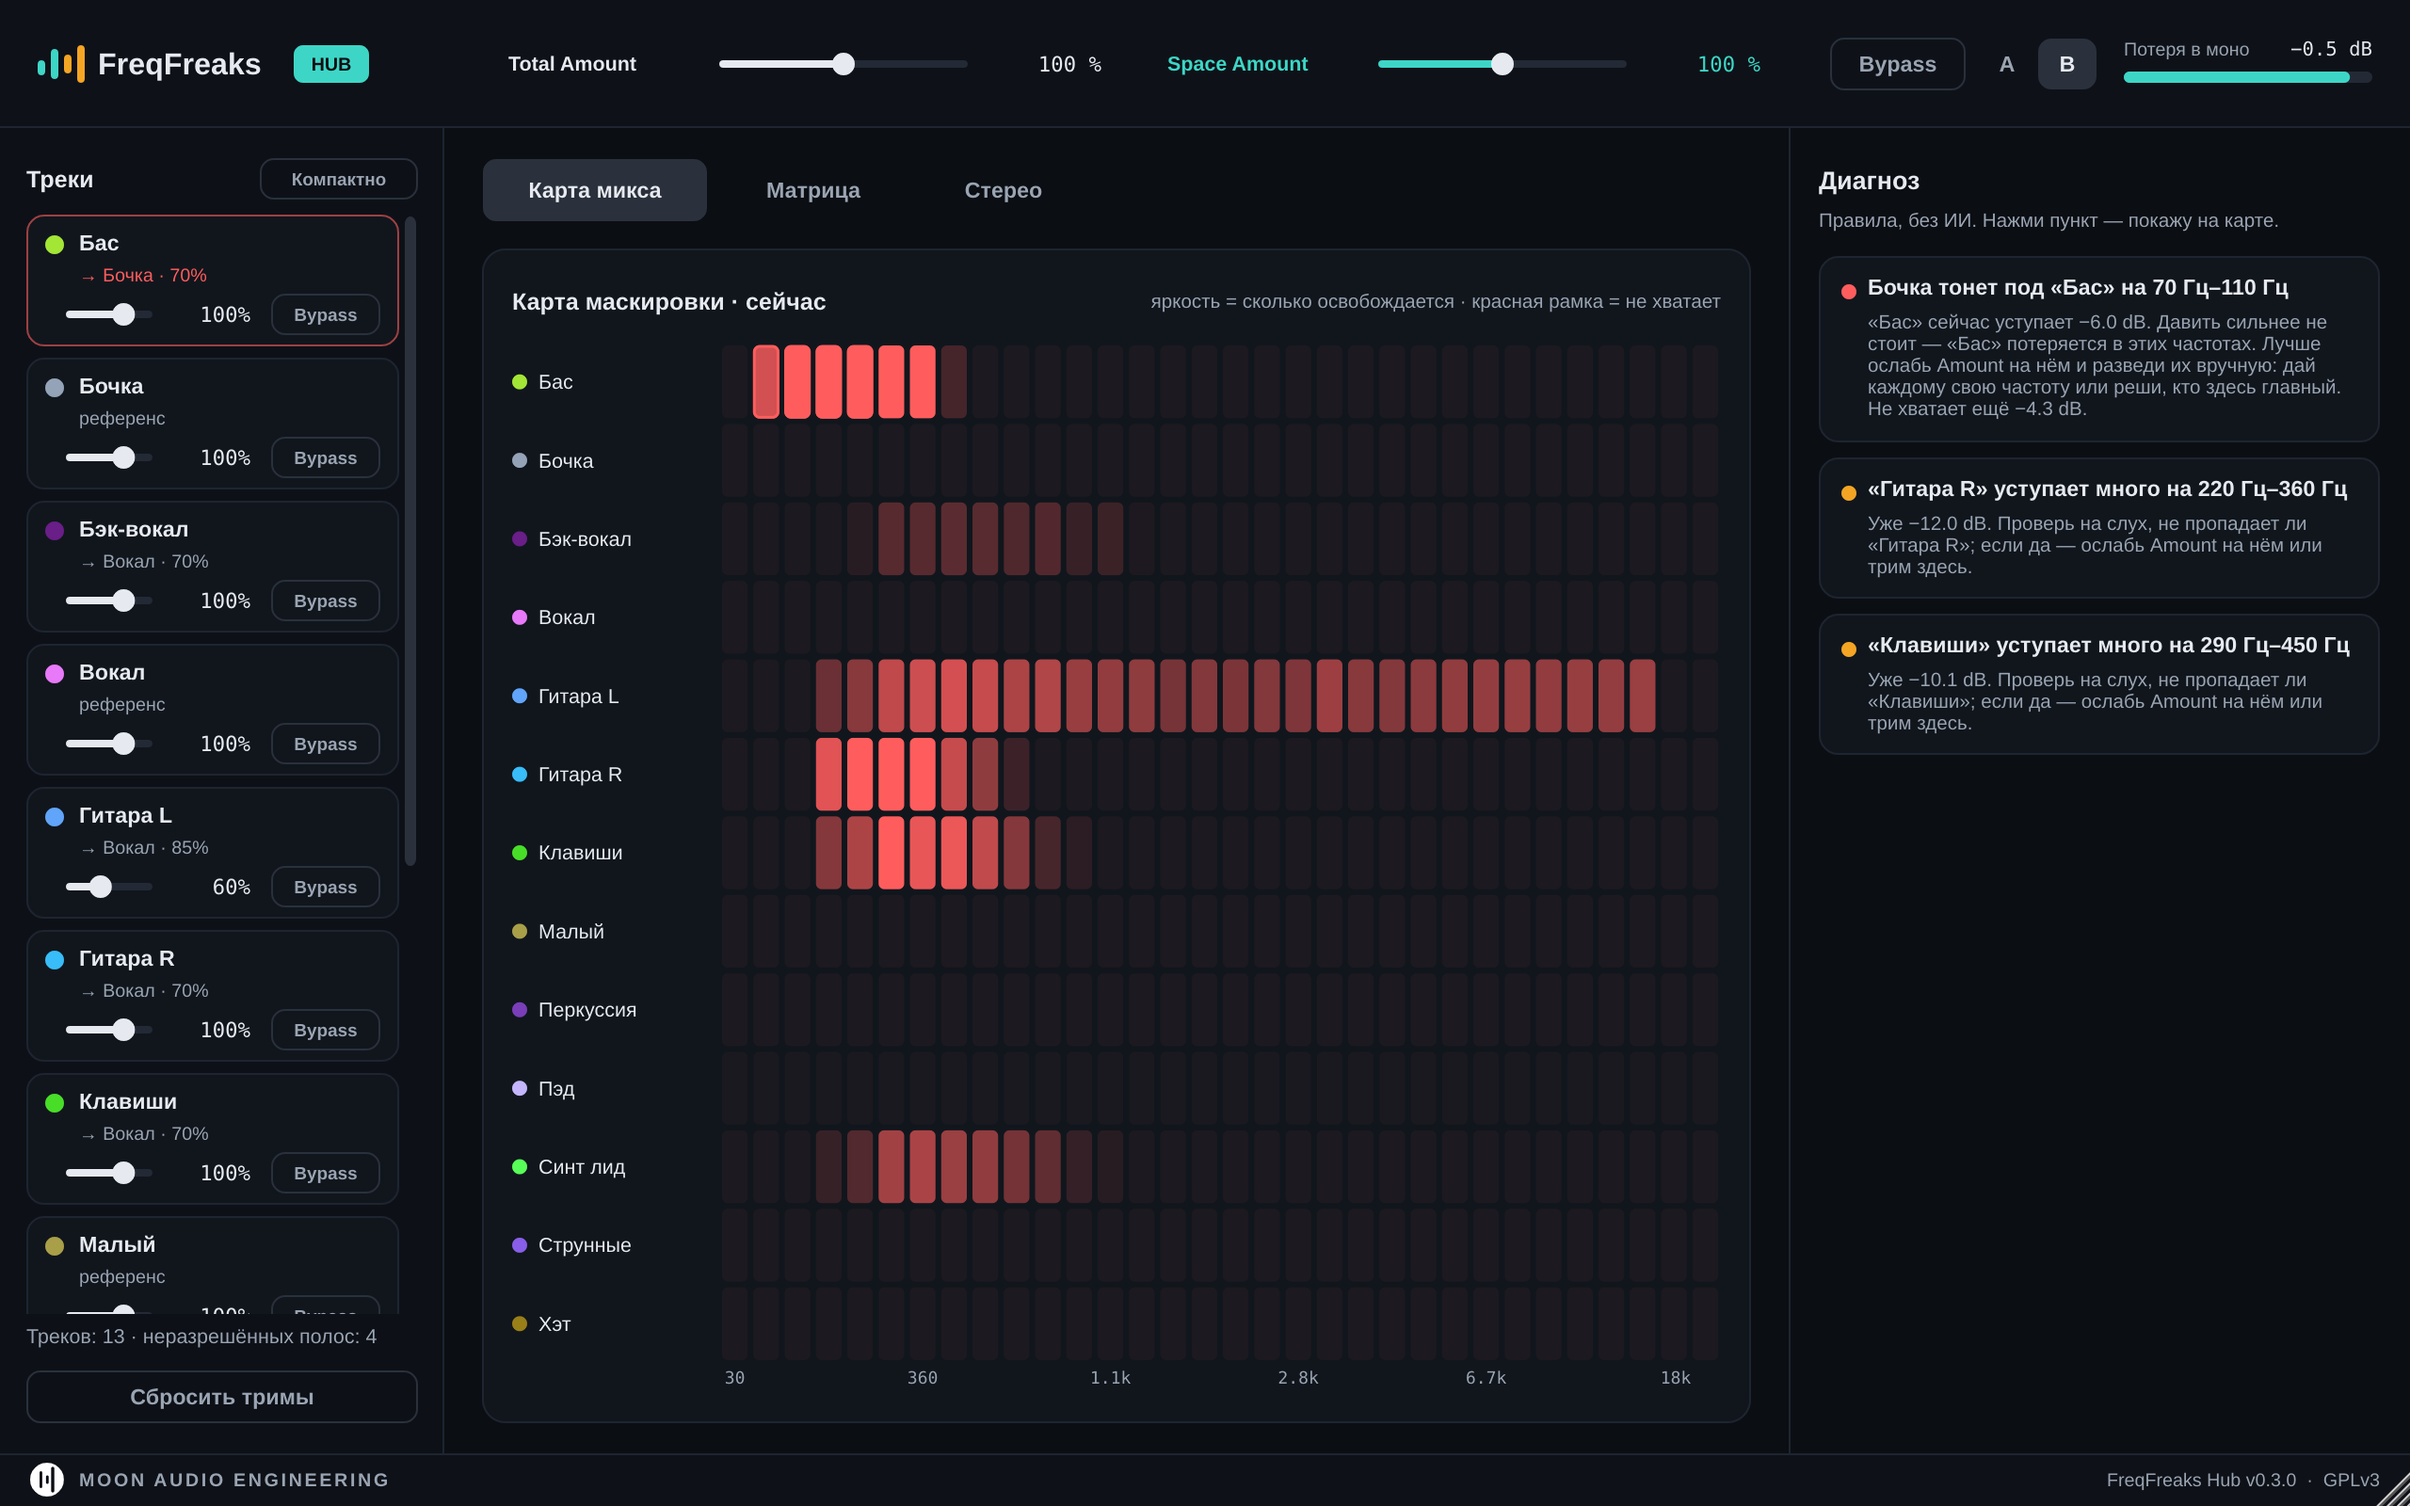
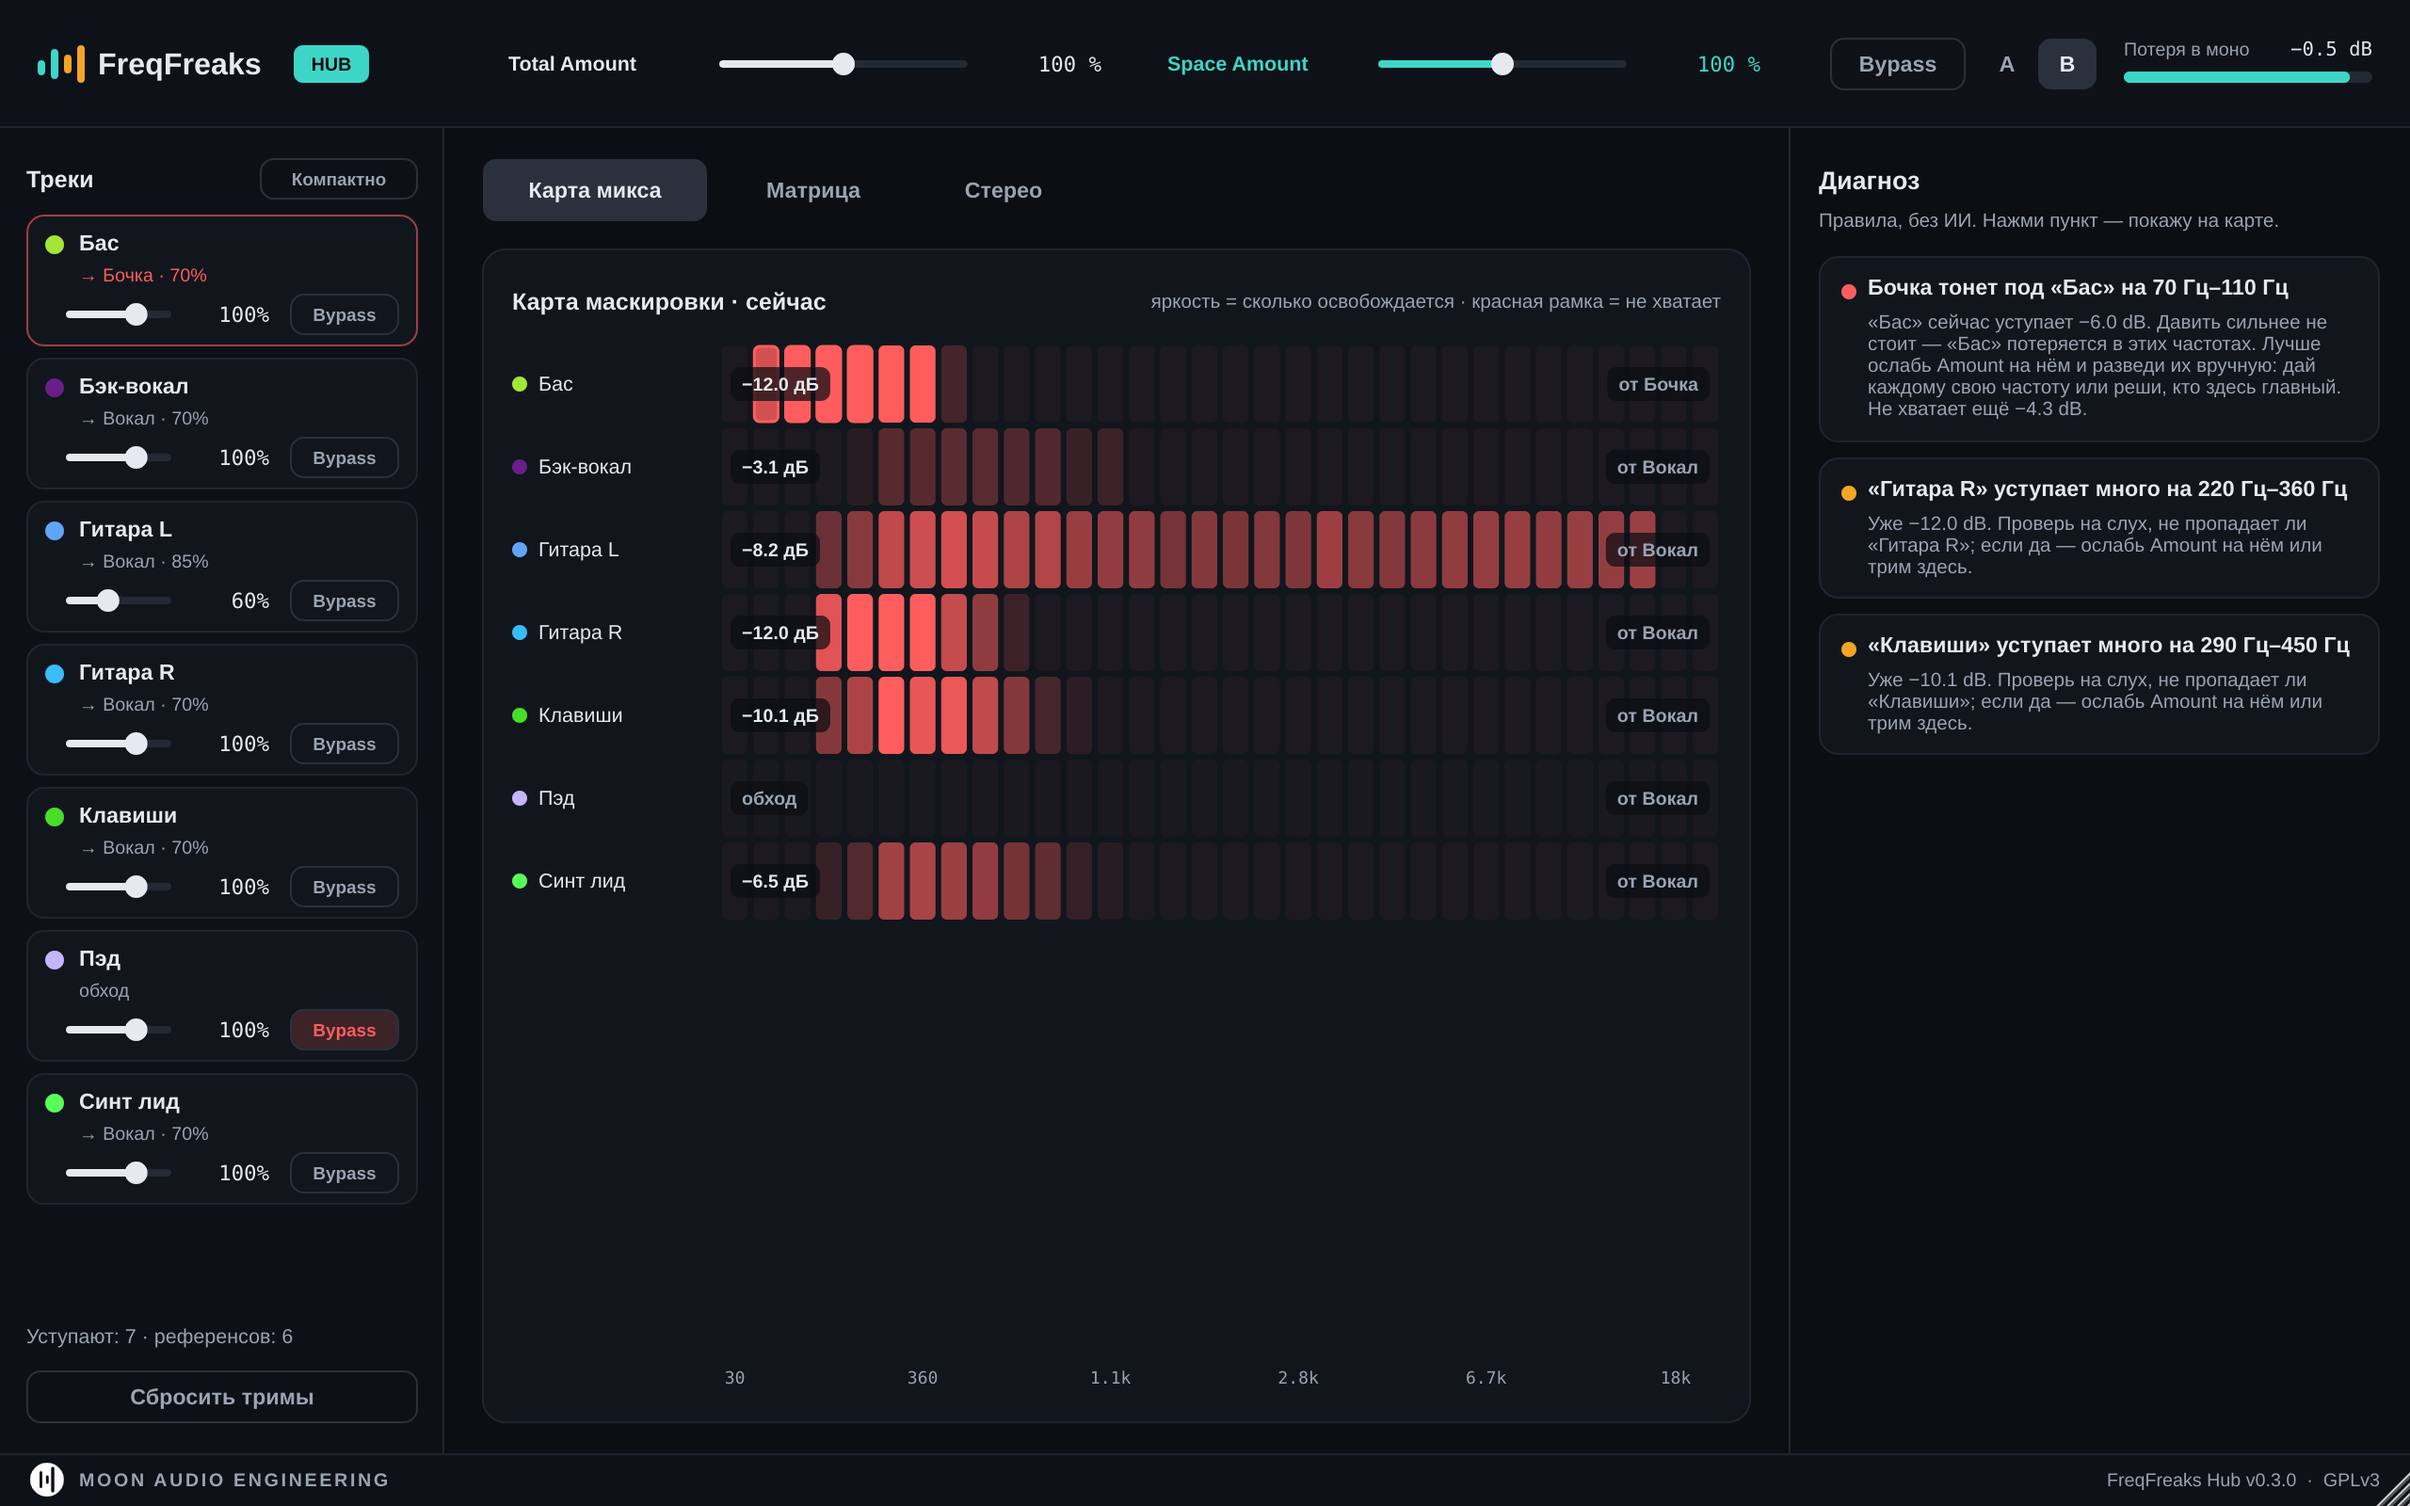
Hub: problems go when fixed; references off the map and list; row labels
- A problem card goes as soon as the level has been fine for 1.5 s in a
  row (shorter dips do not make it flicker) and stays at least 3 s so it
  can be read; no more "N s ago" cards.
- Tracks that yield to nobody (pure references) are no longer on the mix
  map or in the track list: they have nothing to show or trim there. The
  Matrix still shows every track.
- Each map row shows, at its start, how much the track gives now
  ("-12.0 dB", updated once a second), and at its end whom it yields to
  ("от Бочка").

Claude-Session: https://claude.ai/code/session_01Bka2X7zvzf53dtstmGAQz3

diff --git a/plugins/hub/HubEditor.cpp b/plugins/hub/HubEditor.cpp
@@ -68,6 +68,27 @@ void HubCanvas::paint (juce::Graphics& g)
     }
 }
 
+void HubCanvas::setData (std::vector<HubTrack> t)
+{
+    tracks = std::move (t);
+    const auto now = SharedBus::nowMs();
+    for (const auto& tr : tracks)
+    {
+        float given = 0.0f;
+        for (int b = 0; b < kNumBands; ++b)
+            given = juce::jmax (given, tr.data.eqDb[b] + tr.data.spaceDb[b]);
+        auto& g = shownGiven[tr.id];
+        g.pending = juce::jmax (g.pending, given);
+        if (now - g.ms >= 1000)
+        {
+            g.shown = g.pending;
+            g.pending = given;
+            g.ms = now;
+        }
+    }
+    repaint();
+}
+
 void HubCanvas::paintMap (juce::Graphics& g, juce::Rectangle<float> area)
 {
     auto title = area.removeFromTop (24.0f);
@@ -81,14 +102,30 @@ void HubCanvas::paintMap (juce::Graphics& g, juce::Rectangle<float> area)
 
     auto labels = area.removeFromBottom (16.0f);
     const float labelW = 110.0f;
-    const int n = (int) tracks.size();
+
+    // Only the tracks that yield: a pure reference never has anything to show here
+    // (the Matrix still shows everyone).
+    std::vector<int> shown;
+    for (int t = 0; t < (int) tracks.size(); ++t)
+        if (tracks[(size_t) t].data.references[0] != 0)
+            shown.push_back (t);
+    if (shown.empty())
+    {
+        g.setColour (theme::textDim);
+        g.setFont (theme::font (13.0f));
+        g.drawText (theme::u8 ("Нет дорожек, которые уступают. Выбери референс на треке."), area, juce::Justification::centred);
+        return;
+    }
+
+    const int n = (int) shown.size();
     const float rowH = juce::jmin (44.0f, area.getHeight() / (float) n);
     const float cellW = (area.getWidth() - labelW) / (float) kNumBands;
 
-    for (int t = 0; t < n; ++t)
+    for (int row = 0; row < n; ++row)
     {
+        const int t = shown[(size_t) row];
         const auto& tr = tracks[(size_t) t];
-        const float y = area.getY() + rowH * (float) t;
+        const float y = area.getY() + rowH * (float) row;
         g.setColour (tr.colour);
         g.fillEllipse (area.getX(), y + rowH * 0.5f - 4.0f, 8.0f, 8.0f);
         g.setColour (theme::text);
@@ -115,6 +152,24 @@ void HubCanvas::paintMap (juce::Graphics& g, juce::Rectangle<float> area)
                 g.drawRoundedRectangle (cell.reduced (0.5f), 3.0f, 2.0f);
             }
         }
+
+        // At the start of the row: how much the track gives now; at the end: to whom.
+        const auto rowArea = juce::Rectangle<float> (area.getX() + labelW, y, area.getWidth() - labelW, rowH).reduced (6.0f, 0.0f);
+        auto pill = [&] (const juce::String& text, bool atStart, juce::Colour colour) {
+            const auto font = theme::font (11.0f, true);
+            const float w = juce::jmin (rowArea.getWidth() * 0.4f, juce::GlyphArrangement::getStringWidth (font, text) + 12.0f);
+            auto box = juce::Rectangle<float> (w, 18.0f).withCentre ({ atStart ? rowArea.getX() + w * 0.5f : rowArea.getRight() - w * 0.5f,
+                                                                       y + rowH * 0.5f });
+            g.setColour (theme::background.withAlpha (0.72f));
+            g.fillRoundedRectangle (box, 5.0f);
+            g.setColour (colour);
+            g.setFont (font);
+            g.drawText (text, box.reduced (6.0f, 0.0f), juce::Justification::centred, true);
+        };
+        const float given = shownGiven.count (tr.id) != 0 ? shownGiven.at (tr.id).shown : 0.0f;
+        pill (bypassed ? theme::u8 ("обход") : (given > 0.05f ? theme::u8 ("\xe2\x88\x92") + juce::String (given, 1) + theme::u8 (" дБ") : theme::u8 ("0 дБ")),
+              true, bypassed ? theme::textDim : theme::text);
+        pill (theme::u8 ("от ") + (tr.referenceName.isNotEmpty() ? tr.referenceName : theme::u8 ("?")), false, theme::textDim);
     }
 
     const auto& layout = BandLayout::get();
@@ -892,7 +947,9 @@ std::vector<HubIssue> HubEditor::diagnose (const std::vector<HubTrack>& list) co
 
 std::vector<HubIssue> HubEditor::holdIssues (std::vector<HubIssue> current)
 {
-    constexpr std::uint64_t holdMs = 10000, textEveryMs = 1000;
+    // A problem shows while it lasts. It goes as soon as the level has been fine for 1.5 s in a
+    // row (shorter dips don't make it flicker), but stays at least 3 s so it can be read.
+    constexpr std::uint64_t holdMs = 10000, textEveryMs = 1000, goneAfterMs = 1500, minShownMs = 3000;
     const auto now = SharedBus::nowMs();
 
     for (auto& is : current)
@@ -906,8 +963,6 @@ std::vector<HubIssue> HubEditor::holdIssues (std::vector<HubIssue> current)
         auto& h = it->second;
         const bool comingBack = now - h.lastSeenMs > 500;
         h.lastSeenMs = now;
-        if (comingBack)
-            h.firstSeenMs = juce::jmin (h.firstSeenMs, now);
         // Refresh the text at most once a second, keeping the worst value seen and the severity.
         const bool worse = is.worstDb > h.issue.worstDb + 1.0f || (is.severe && ! h.issue.severe);
         if (worse || now - h.textMs >= textEveryMs || comingBack)
@@ -931,13 +986,14 @@ std::vector<HubIssue> HubEditor::holdIssues (std::vector<HubIssue> current)
     {
         auto& h = it->second;
         const bool trackAlive = std::any_of (tracks.begin(), tracks.end(), [&] (const HubTrack& t) { return t.id == h.issue.trackId; });
-        if (now - h.lastSeenMs > holdMs || ! trackAlive)
+        const bool resolved = now - h.lastSeenMs > goneAfterMs && now - h.firstSeenMs >= minShownMs;
+        if (resolved || ! trackAlive)
         {
             it = held.erase (it);
             continue;
         }
         auto is = h.issue;
-        is.ageSeconds = now - h.lastSeenMs > 500 ? (int) ((now - h.lastSeenMs + 500) / 1000) : 0;
+        is.ageSeconds = 0;
         is.trackIndex = -1;
         for (size_t i = 0; i < tracks.size(); ++i)
             if (tracks[i].id == is.trackId)
@@ -1017,9 +1073,11 @@ void HubEditor::rebuildRows()
                 if (tracks[i].id == is.trackId)
                     problem[i] = true;
 
-    std::vector<size_t> order (tracks.size());
-    for (size_t i = 0; i < order.size(); ++i)
-        order[i] = i;
+    // Only the tracks that yield: a pure reference has nothing to trim or bypass here.
+    std::vector<size_t> order;
+    for (size_t i = 0; i < tracks.size(); ++i)
+        if (tracks[i].data.references[0] != 0)
+            order.push_back (i);
     std::stable_sort (order.begin(), order.end(), [&] (size_t a, size_t b) { return problem[a] && ! problem[b]; });
 
     // Don't shuffle the list under the mouse: while a trim is dragged, only update values.
@@ -1033,7 +1091,7 @@ void HubEditor::rebuildRows()
     }
 
     std::vector<std::unique_ptr<TrackRow>> next;
-    bool changed = rows.size() != tracks.size();
+    bool changed = rows.size() != order.size();
     for (size_t k = 0; k < order.size(); ++k)
     {
         const auto& t = tracks[order[k]];
@@ -1181,7 +1239,9 @@ void HubEditor::paint (juce::Graphics& g)
     g.setColour (theme::textDim);
     g.setFont (theme::font (12.0f));
     auto footer = sidebar.reduced (14, 16).withTrimmedBottom (36).removeFromBottom (20);
-    g.drawText (u8 ("Треков: ") + juce::String ((int) tracks.size()) + u8 (" · неразрешённых полос: ") + juce::String (unresolved),
+    const int references = (int) std::count_if (tracks.begin(), tracks.end(), [] (const HubTrack& t) { return t.data.references[0] == 0; });
+    juce::ignoreUnused (unresolved);
+    g.drawText (u8 ("Уступают: ") + juce::String ((int) tracks.size() - references) + u8 (" · референсов: ") + juce::String (references),
                 footer, juce::Justification::centredLeft);
 }
 

diff --git a/plugins/hub/HubEditor.h b/plugins/hub/HubEditor.h
@@ -42,7 +42,7 @@ public:
     enum class View { map, matrix, stereo };
 
     void setView (View v)                                { view = v; repaint(); }
-    void setData (std::vector<HubTrack> t)               { tracks = std::move (t); repaint(); }
+    void setData (std::vector<HubTrack> t);
     void setFocus (int track, int from, int to)          { focusTrack = track; focusFrom = from; focusTo = to; repaint(); }
 
     void paint (juce::Graphics&) override;
@@ -54,6 +54,10 @@ private:
 
     View view = View::map;
     std::vector<HubTrack> tracks;
+
+    // The "−5 дБ" on each row changes at most once a second (the most it gave in that second).
+    struct Given { float shown = 0.0f, pending = 0.0f; std::uint64_t ms = 0; };
+    std::map<std::uint64_t, Given> shownGiven;
     int focusTrack = -1, focusFrom = 0, focusTo = -1;
 };
 
